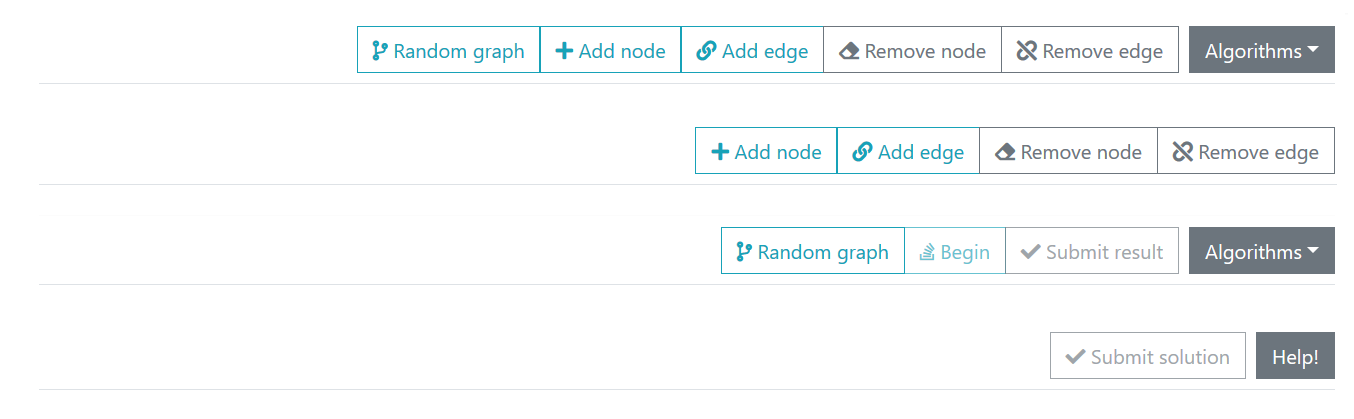
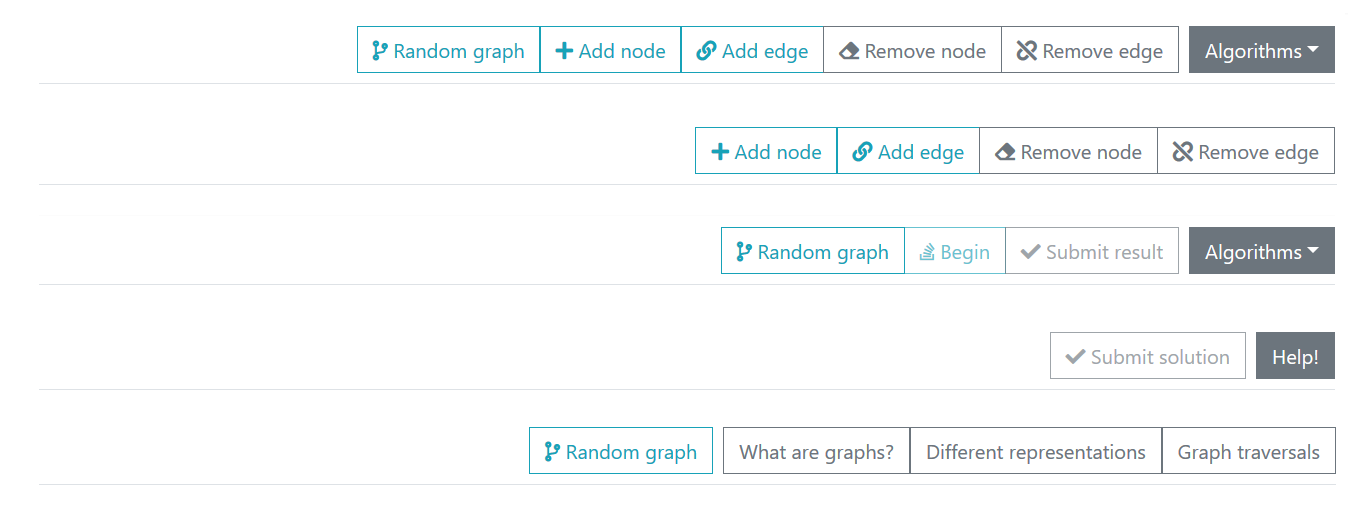
(refactor)

Changed region(s): [[0.3722, 0.4344, 0.9926, 0.9618], [0.2482, 0.031, 0.9926, 0.1862], [0.5273, 0.2482, 0.9926, 0.4033]]

diff --git a/structured/src/containers/room/toolbar/toolbar-learn/learn.js b/structured/src/containers/room/toolbar/toolbar-learn/learn.js
@@ -6,15 +6,15 @@ const learn = (props) => (
     <div className="d-flex justify-content-between flex-wrap flex-md-nowrap align-items-center pb-2 mb-3 border-bottom">
         <div />
         <div className="btn-toolbar mb-2 mb-md-0">
-            <div className="btn-group mr-2">
+            <div className="btn-group">
                 <Button outline color="info" className="mr-2" onClick={() => props.randomGraph()}><i className="fas fa-code-branch"></i> Random graph</Button>
-                <Modal title="What are graphs?" buttonCondition buttonLabel="What are graphs?" buttonClass="btn-outline">
+                <Modal title="What are graphs?" buttonCondition buttonLabel="What are graphs?" buttonClass="btn btn-outline-secondary">
                     {props.graphLearn('GRAPH_LEARN_GRAPHS')}
                 </Modal>
-                <Modal title="Different representations" buttonCondition buttonLabel="Different representations" buttonClass="btn-outline">
+                <Modal title="Different representations" buttonCondition buttonLabel="Different representations" buttonClass="btn btn-outline-secondary">
                     {props.graphLearn('GRAPH_LEARN_REPRESENTATIONS')}
                 </Modal>
-                <Modal title="Graph traversals" buttonCondition buttonLabel="Graph traversals" buttonClass="btn-outline">
+                <Modal title="Graph traversals" buttonCondition buttonLabel="Graph traversals" buttonClass="btn btn-outline-secondary">
                     {props.graphLearn('GRAPH_LEARN_TRAVERSALS')}
                 </Modal>
             </div>

diff --git a/structured/src/containers/dashboard/dashboard-cards/dashboardCards.js b/structured/src/containers/dashboard/dashboard-cards/dashboardCards.js
@@ -19,7 +19,7 @@ class dashboardCards extends Component {
                                 <i className="fas fa-user-friends"> </i>
                             </div>
                             <div className="mr-5">{this.props.numRequests} New friend requests</div>
-                            <Modal title="Add a new friend" buttonCondition buttonLabel="Add a new friend" buttonClass="float-left btn btn-outline-light btn-sm m-1">
+                            <Modal title="Add a new friend" buttonCondition buttonLabel="Add a new friend" buttonClass="float-left btn btn-outline-light btn-sm ml-3 mr-2 mt-2 mb-1">
                                 <Form onSubmit={this.addFriendHandler}>
                                     <FormGroup>
                                         <Label for="room">Enter your friends username:</Label>

diff --git a/structured/src/containers/home/room-new/roomNew.js b/structured/src/containers/home/room-new/roomNew.js
@@ -55,7 +55,7 @@ class roomNew extends Component {
                                 <DropdownItem onClick={() => this.modeHandler("learn")}>Learn</DropdownItem>
                             </DropdownMenu>
                         </ButtonDropdown>
-                        <Modal title="Create a new room" buttonCondition={this.state.newAvailable} buttonLabel="New!" buttonClass="btn-danger">
+                        <Modal title="Create a new room" buttonCondition={this.state.newAvailable} buttonLabel="New!" buttonClass="ml-2 btn-danger">
                             <Form onSubmit={this.newRoomHandler}>
                                 <FormGroup>
                                     <Label for="room">Room name:</Label>

diff --git a/structured/src/components/user-interface/modal/modal.js b/structured/src/components/user-interface/modal/modal.js
@@ -19,7 +19,7 @@ class ExModal extends React.Component {
 
     render() {
         return (
-            <div className="ml-2 mr-2">
+            <div className="ml-0 mr-0">
                 <Button className={this.props.buttonClass} disabled={!this.props.buttonCondition} onClick={this.toggle}>{this.props.buttonLabel}</Button>
                 <Modal className="modal-lg" isOpen={this.state.modal} toggle={this.toggle}>
                     <ModalHeader>{this.props.title}</ModalHeader>
